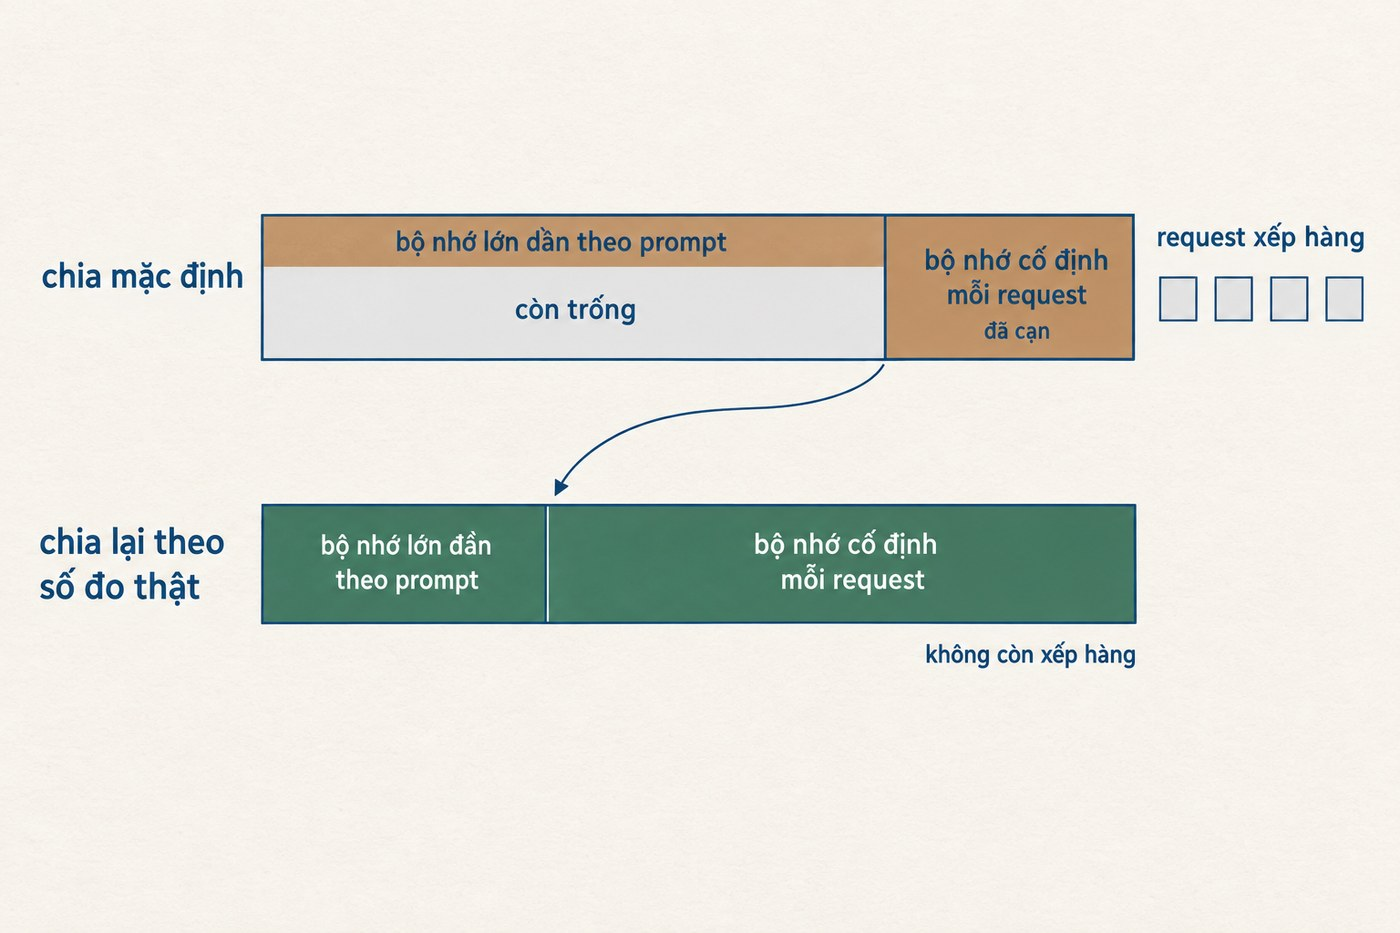
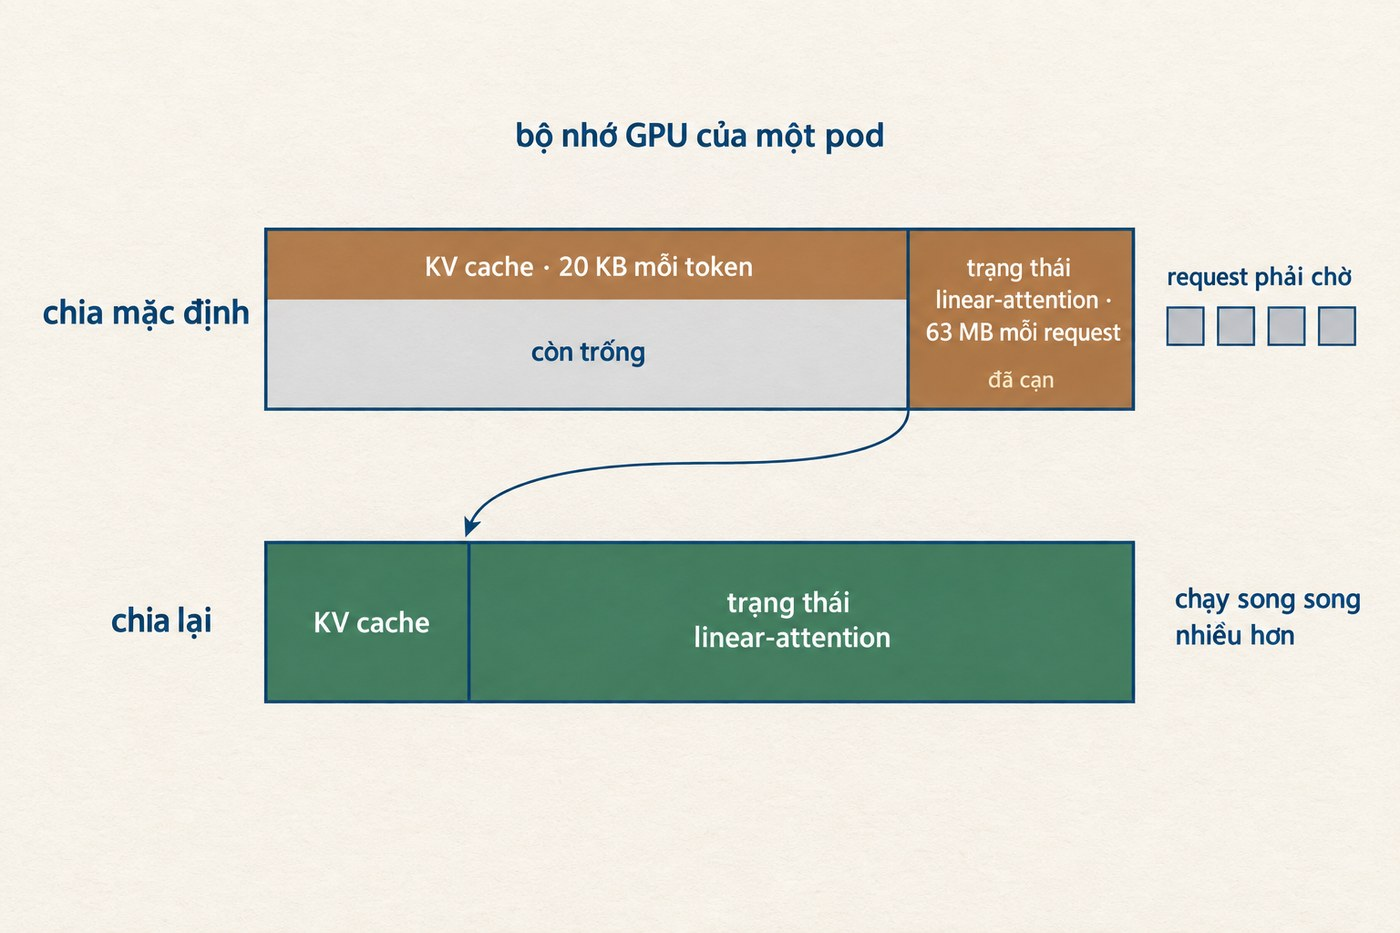
Gọi đúng tên hai vùng nhớ thay vì mô tả trừu tượng
KV cache ~20 KB mỗi token vs trạng thái 30 layer linear-attention ~63 MB
mỗi request cố định. Nói rõ vì sao vùng thứ hai cạn trước: tải của MISA bị
đẩy tới giới hạn bởi số request song song, không phải độ dài prompt.
Vẽ lại sơ đồ với đúng hai tên đó và đơn vị.

diff --git a/posts/nhanh-bay-lan-khong-them-gpu/index.html b/posts/nhanh-bay-lan-khong-them-gpu/index.html
@@ -77,13 +77,15 @@
 
 <p><b>Hai, cho lớp linear-attention một kernel đọc prompt viết riêng.</b> Model là kiến trúc hybrid, phần lớn layer dùng linear attention, nhưng cấu hình cũ không khai báo backend cho nhóm này nên chúng chạy bằng kernel chung, vốn viết cho kiểu attention khác. Kernel mới viết đúng cho loại layer đó, và với prompt rất dài thì được phép bỏ qua phần không cần đọc lại.</p>
 
-<p><b>Ba, chia lại bộ nhớ GPU.</b> Model cần hai loại bộ nhớ: một loại lớn dần theo độ dài prompt, một loại cố định cho mỗi request. Engine chia GPU cho hai loại theo một tỉ lệ mặc định, mà với tải thật của MISA thì tỉ lệ đó lệch: loại thứ nhất thừa chỗ, loại thứ hai cạn sạch. Request phải xếp hàng trong khi GPU vẫn còn trống. Nhìn biểu đồ thì tưởng hết tài nguyên, thực ra là chia sai. Chia lại theo số đo thật, giữ nguyên độ dài context, không đánh đổi gì.</p>
+<p><b>Ba, chia lại bộ nhớ GPU.</b> Model hybrid này cần hai vùng nhớ khác hẳn nhau. Vùng thứ nhất là KV cache, tốn khoảng 20 KB cho mỗi token, nên nó lớn dần theo độ dài prompt. Vùng thứ hai giữ trạng thái của 30 layer linear-attention, tốn khoảng 63 MB cho mỗi request đang chạy, và con số đó cố định dù prompt dài hay ngắn.</p>
+
+<p>Engine chia bộ nhớ GPU cho hai vùng theo một tỉ lệ mặc định. Với tải của MISA, thứ đẩy tới giới hạn là số request chạy song song chứ không phải độ dài prompt, nên vùng 63 MB cạn trước trong khi KV cache còn thừa chỗ. Request mới phải xếp hàng dù GPU vẫn còn bộ nhớ trống. Dời ranh giới theo số đo thật thì cả hai vùng cùng dùng hết, và độ dài context giữ nguyên.</p>
 
 </div>
 
 <figure>
   <img src="img/mech-memory.jpg" alt="Sơ đồ: cùng một dải bộ nhớ GPU, cách chia mặc định để trống một mảng lớn ở pool lớn dần theo prompt trong khi pool cố định mỗi request đã cạn và request phải xếp hàng; chia lại thì cả hai pool đều dùng hết và không còn xếp hàng">
-  <figcaption><b>Cùng một dải bộ nhớ GPU, hai cách chia.</b> Tỉ lệ mặc định để trống một mảng lớn ở loại lớn dần theo prompt, trong khi loại cố định cho mỗi request đã cạn, nên request phải xếp hàng dù GPU còn chỗ. Dời ranh giới theo số đo thật thì cả hai đều dùng hết.</figcaption>
+  <figcaption><b>Cùng một dải bộ nhớ GPU, hai cách chia.</b> Tỉ lệ mặc định để trống một mảng lớn trong KV cache, trong khi vùng trạng thái linear-attention đã cạn. Số request chạy song song bị chặn bởi vùng cạn đó, nên request mới phải chờ dù GPU vẫn còn bộ nhớ trống.</figcaption>
 </figure>
 
 <div class="col">
